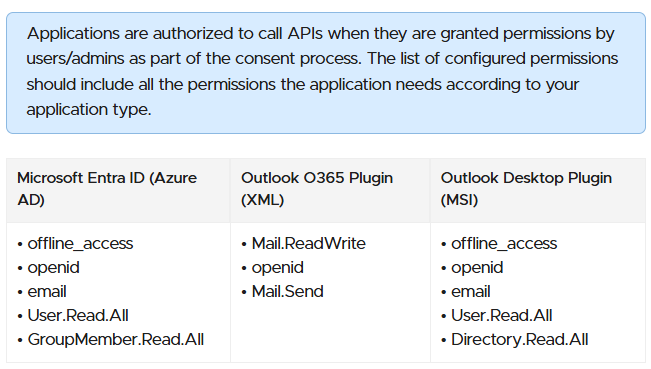
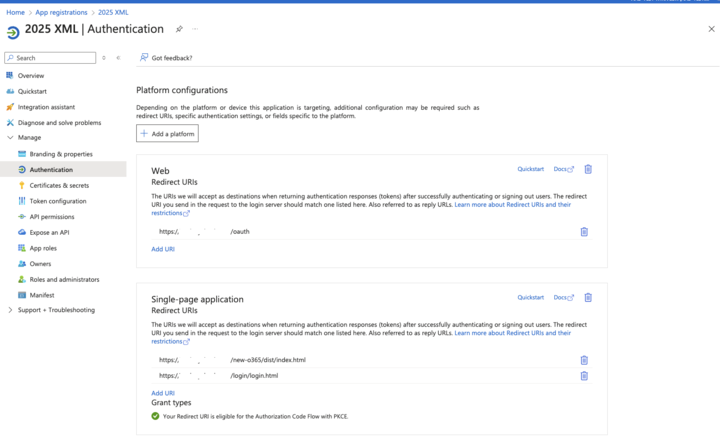
GITBOOK-907: No subject

diff --git a/application-reference/settings/common-system-settings/sso-configuration.md b/application-reference/settings/common-system-settings/sso-configuration.md
@@ -139,42 +139,7 @@ Lucy is configured to utilize the Microsoft Graph API to access and manage vario
 
 <table><thead><tr><th>Permission</th><th width="124">Type</th><th width="167">Description</th><th>Admin consent required</th></tr></thead><tbody><tr><td>User.read</td><td>Delegated</td><td>Sign in and read user profile</td><td>No</td></tr><tr><td>Directory.Read.All</td><td>Delegated</td><td>Read directory data</td><td>Yes</td></tr><tr><td>email</td><td>Delegated</td><td>View users' email address</td><td>No</td></tr><tr><td>offline_access</td><td>Delegated</td><td>Maintain access to data you have given it access to</td><td>No</td></tr><tr><td>OpenID</td><td>Delegated</td><td>Sign users in</td><td>No</td></tr><tr><td>User.Read.All</td><td>Delegated</td><td>Read all users' full profiles</td><td>Yes</td></tr></tbody></table>
 
-## SAML 2.0 (Any)
-
-The exact method of deploying a SAML application for SSO will vary depending on the application your organization uses. These are the general steps for deploying a SAML app and connecting with Lucy.
-
-### **Configure the IdP**
-
-Define Lucy as a SP within the IdP, specifying its endpoint and required SAML attributes.
-
-### **Upload IdP Metadata**
-
-In Lucy, navigate to **Settings -> Common System Settings -> SSO Settings**.
-
-<figure><img src="../../../.gitbook/assets/chrome_tEqbuzI1zO.png" alt=""><figcaption></figcaption></figure>
-
-Enter your administrative domain and IdP endpoint.
-
-Then, upload your IdP metadata file and paste in the thumbprint. Your IdP should provide a thumbprint for your X.509 certificate, but you can also use an online tool like [https://www.samltool.com/fingerprint.php](https://www.samltool.com/fingerprint.php).
-
-{% hint style="success" %}
-Lucy requires a SHA1 thumbprint. SHA256 or other algorithms will not work.
-{% endhint %}
-
-### **Attribute Mapping**
-
-Map user attributes from the IdP to fields in Lucy (e.g., email, full name) as required.
-
-### **Test Authentication**
-
-Verify the SSO connection with the IdP by clicking **Test Connection**.\
-Testing should be completed before enabling Auto Login to avoid login issues.
-
-#### **Enable Automatic Login (optional)**
-
-This setting allows seamless login but should be used carefully, as enabling it can restrict alternative access methods. [Contact Lucy support](../../../when-to-contact-us/contact-technical-support.md) if auto login prevents access.
-
-## SAML 2.0 (Entra ID)
+## Entra ID (SAML 2.0)
 
 Microsoft Entra ID also supports SSO using SAML 2.0.
 
@@ -265,3 +230,118 @@ Finally, paste the thumbprint in the **Identity Provider Certificate Thumbprint*
 <figure><img src="../../../.gitbook/assets/image (924).png" alt=""><figcaption></figcaption></figure>
 
 Click **Save** to apply the settings, then click **Test Connection**. You should be redirected to your SSO login page where you can test that your connection is working.
+
+## Google Workspace (SAML 2.0)
+
+### Create an app in your workspace
+
+Log in to your [Google Workspace admin dashboard](https://admin.google.com/) and go to **Apps > Web and Mobile Apps.** Select "Add App" and then select "Add custom SAML app" to begin.
+
+<figure><img src="../../../.gitbook/assets/image (1005).png" alt=""><figcaption></figcaption></figure>
+
+#### 1. App details
+
+Give you app a name and optionally create a description and set an icon, then select "Continue".
+
+#### 2. Google IdP Details
+
+Select the first option, "Download Metadata".\
+Then, copy the **Entity ID** and **Certificate** values and save them in a note for later.
+
+<figure><img src="../../../.gitbook/assets/image (1008).png" alt=""><figcaption></figcaption></figure>
+
+{% hint style="success" %}
+You will need the Entity ID and certificate in a later step, but you will **also** need the metadata file itself.\
+Make sure you have all the required data before proceeding!
+{% endhint %}
+
+#### 3. Service Provider Details
+
+To retreive the ACS URL and the Service Provider's Entity ID, log in to your Lucy portal and go to **Settings > Common System Settings > SSO Configuration**. Enable SSO and select "SAML 2.0" for the Protocol.
+
+Then, copy the **Meta Endpoint** URL and paste it in to your browser. It will download an file called "lucy-sp.xml" which contains the information required for this step.
+
+<figure><img src="../../../.gitbook/assets/image (1009).png" alt=""><figcaption></figcaption></figure>
+
+Open the XML file and search (Ctrl + f) for "entityID". The record should be close to the top of the file. Copy the URL (without the quotation marks) and enter it in the "Entity ID" field back in Google Workspace. It should look like this:
+
+```
+https://<your_lucy_url>/simplesaml/module.php/saml/sp/metadata.php/lucy-sp
+```
+
+Then, search for "Assertion Consumer Service" and locate the "Location" portion of that record. Copy that URL and enter it in the "ACS URL" field in Google Workspace. It should look like this:
+
+```
+https://<your_lucy_url>/simplesaml/module.php/saml/sp/saml2-acs.php/lucy-sp
+```
+
+Finally, under **Name ID** select "Email" as the format and leave the **Name ID** default setting as primary email. Select "Continue" to move on to attribute mapping.
+
+#### 4. Attribute Mapping
+
+Create a mapping for **Primary Email > mail** like this:
+
+<figure><img src="../../../.gitbook/assets/image (1010).png" alt=""><figcaption></figcaption></figure>
+
+It is not necessary to configure group information.
+
+#### 5. User Access
+
+After creating your app select the "User Access" dashboard and select "ON for everyone", then save.
+
+We are now ready to complete the process in Lucy.
+
+### Configure SSO in Lucy
+
+Fill out the form on the **SSO Configuration** page like so:
+
+<table><thead><tr><th width="343.77783203125">Field</th><th>Value</th></tr></thead><tbody><tr><td>Protocol</td><td>SAML 2.0</td></tr><tr><td>Auto Login</td><td><strong>Do not enable until after testing</strong></td></tr><tr><td>Domain name</td><td>Your Lucy URL</td></tr><tr><td>Identity Provider Endpoint</td><td>The <strong>EntityID</strong> value you copied from Google Workspace</td></tr><tr><td>Identity Provider Server XML metadata</td><td>Upload the metadata file you downloaded from Google Workspace</td></tr><tr><td>Identity Provider Certificate Thumbprint</td><td>Get the SHA-1 fingerprint using the certificate data you copied from Google Workspace and a tool like this one: <a href="https://www.samltool.com/fingerprint.php">https://www.samltool.com/fingerprint.php</a></td></tr><tr><td>Token Encryption</td><td><strong>Do not enable unless you are using token encryption in your SSO workflow</strong></td></tr></tbody></table>
+
+When you are ready, click "Save".
+
+### Testing the Connection
+
+You can test that the SSO workflow is working from both Lucy's side and from Google Workspace. To test from Lucy simply select the "Test Connection" button **after saving the configuration**.
+
+To test from Google Workspace you can select "Test SAML Login" from the application page.
+
+<figure><img src="../../../.gitbook/assets/image.png" alt=""><figcaption></figcaption></figure>
+
+{% hint style="success" %}
+In order to test the connection from Lucy, you must be logged in to Lucy as a user that exists in your Google Workspace environment. In addition, your users must exist in Google Workspace in order to use the SSO workflow.
+{% endhint %}
+
+## SAML 2.0 (Any)
+
+The exact method of deploying a SAML application for SSO will vary depending on the application your organization uses. These are the general steps for deploying a SAML app and connecting with Lucy.
+
+### **Configure the IdP**
+
+Define Lucy as a SP within the IdP, specifying its endpoint and required SAML attributes.
+
+### **Upload IdP Metadata**
+
+In Lucy, navigate to **Settings -> Common System Settings -> SSO Settings**.
+
+<figure><img src="../../../.gitbook/assets/chrome_tEqbuzI1zO.png" alt=""><figcaption></figcaption></figure>
+
+Enter your administrative domain and IdP endpoint.
+
+Then, upload your IdP metadata file and paste in the thumbprint. Your IdP should provide a thumbprint for your X.509 certificate, but you can also use an online tool like [https://www.samltool.com/fingerprint.php](https://www.samltool.com/fingerprint.php).
+
+{% hint style="success" %}
+Lucy requires a SHA1 thumbprint. SHA256 or other algorithms will not work.
+{% endhint %}
+
+### **Attribute Mapping**
+
+Map user attributes from the IdP to fields in Lucy (e.g., email, full name) as required.
+
+### **Test Authentication**
+
+Verify the SSO connection with the IdP by clicking **Test Connection**.\
+Testing should be completed before enabling Auto Login to avoid login issues.
+
+#### **Enable Automatic Login (optional)**
+
+This setting allows seamless login but should be used carefully, as enabling it can restrict alternative access methods. [Contact Lucy support](../../../when-to-contact-us/contact-technical-support.md) if auto login prevents access.
